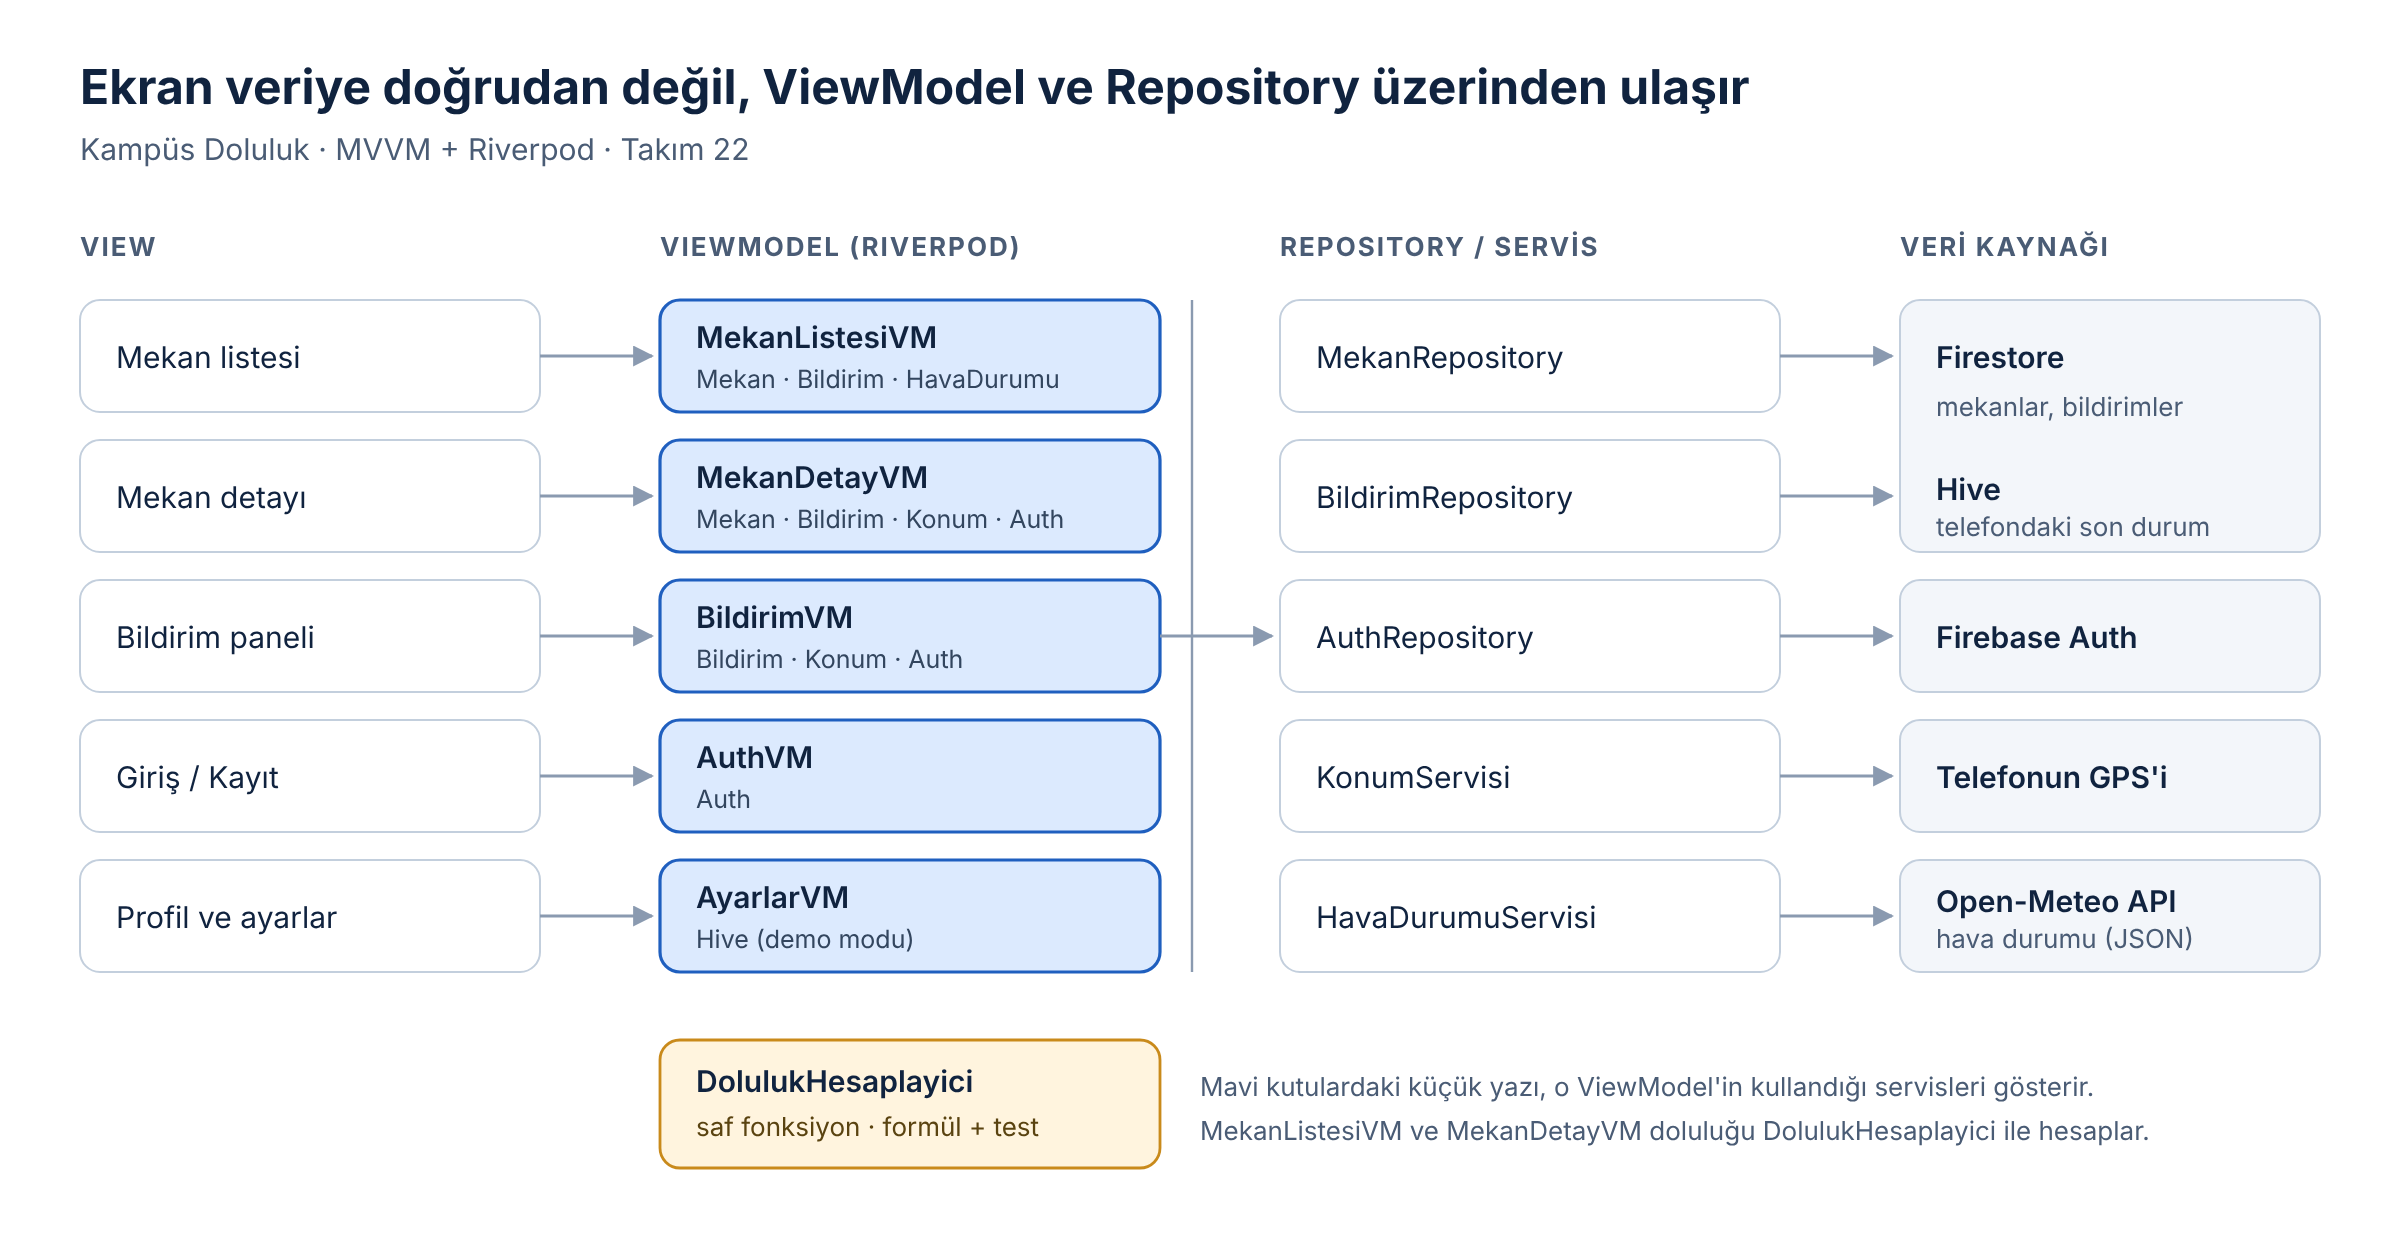
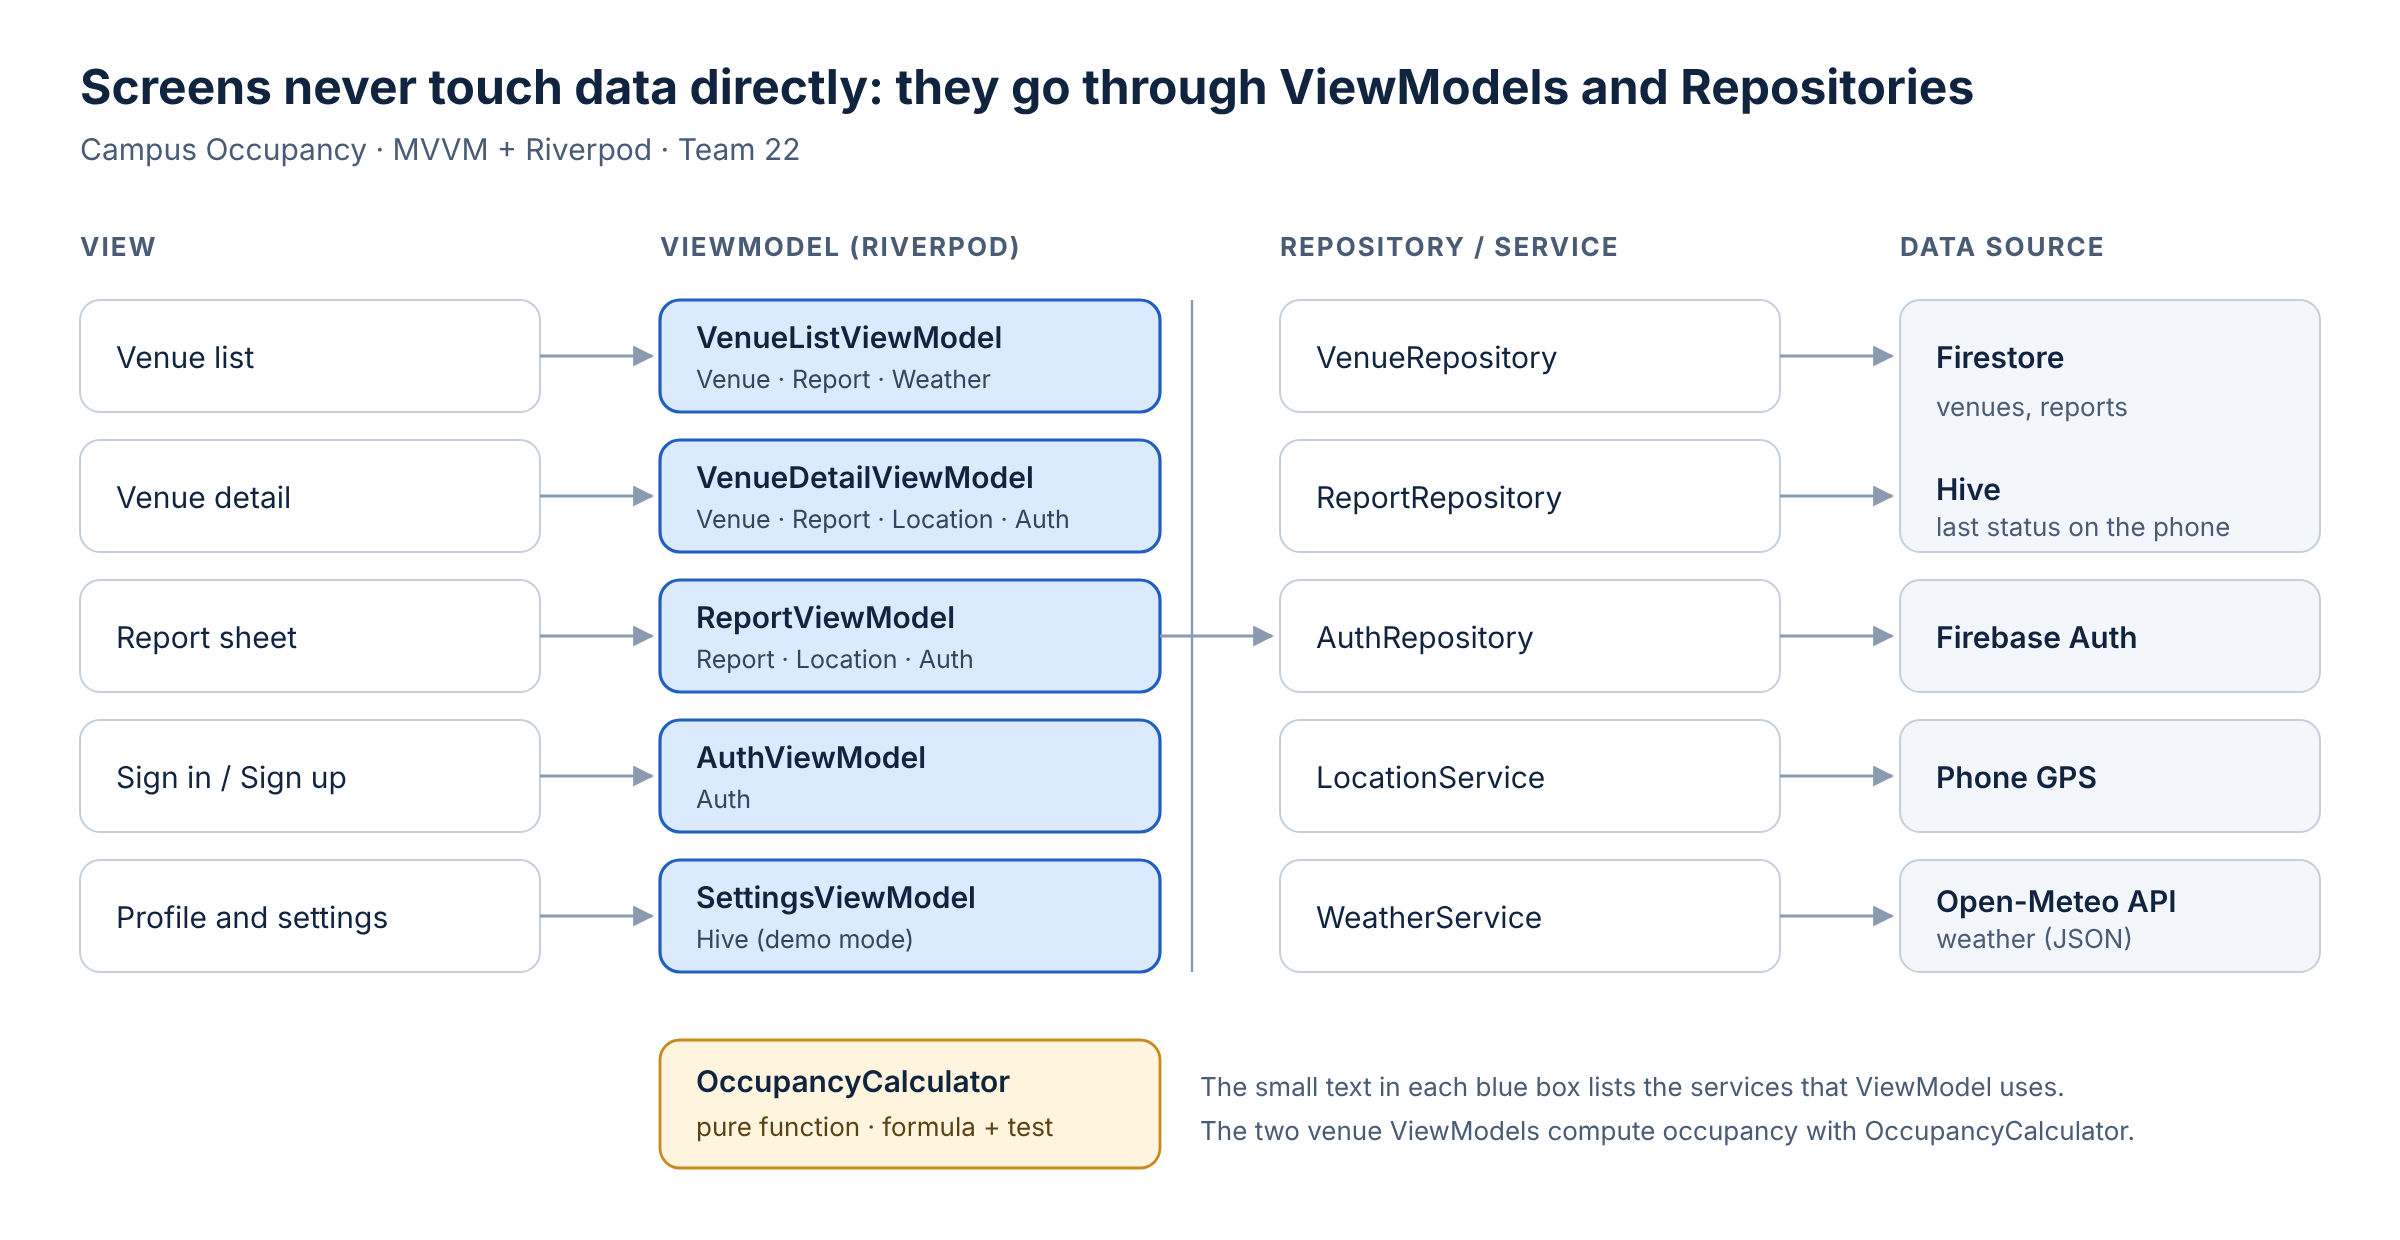
Update

diff --git a/docs/4_architecture.md b/docs/4_architecture.md
@@ -1,0 +1,72 @@
+# 4. Architecture
+
+The app consists of 5 screens, 2 Firestore collections and MVVM layers; state is managed with Riverpod.
+
+## 4.1 Screen map
+
+![Screen map](screen_map.png)
+
+The app opens directly on the venue list, because viewing needs no sign-in. The sign-in screen is reached only when the user wants to report, or from the profile. Mockup: [Figma](FIGMA_LINK_HERE) · [docs/mockup.png](mockup.png)
+
+## 4.2 Data model
+
+**Venue** (Firestore `venues`, 8 records)
+
+| Field | Type | Example | Used for |
+| --- | --- | --- | --- |
+| name | string | "Hokka Cafe" | Card title |
+| type | string | cafe / dining / gym | Filters |
+| group | string (optional) | "dining" | Showing both dining hall floors on one card |
+| photoUrl | string | image URL | Card image |
+| lat, lng | number | 41.027, 28.889 | GPS check |
+| radiusM | number (m) | 120 | GPS check |
+| halfLifeMin | number (min) | 10 | Occupancy calculation |
+| hasOutdoor | boolean | true | Weather warning |
+| openingHours | list of time ranges | [11:30–14:30, 17:00–19:15] | "Closed" status |
+
+**Report** (Firestore `reports`, one record per report)
+
+| Field | Type | Example |
+| --- | --- | --- |
+| venueId | string | "hokka" |
+| userId | string | Firebase Auth user id |
+| level | number | 0 (empty) / 50 (moderate) / 100 (full) |
+| createdAt | timestamp | 10.11.2026 12:31 |
+
+**User:** No separate collection. Email and verification status are kept by Firebase Auth; the 15-minute rule is checked against the `reports` collection.
+
+**On the phone (Hive):** Each venue's last calculated status and when it was calculated. This is shown when offline.
+
+### How occupancy is calculated
+
+A venue's status is not stored; it is calculated from recent reports every time. This way an old "full" never gets stuck on the screen.
+
+1. Each report gets a weight based on its age: `weight = 0.5 ^ (minutes since report / half-life)`. The half-life is 7 minutes for the dining hall, 10 for cafés and 20 for the gym. Reports older than about 4.5 half-lives are ignored (30 / 45 / 90 min).
+2. The occupancy percentage is the weighted average: `Σ(weight × level) / Σ(weight)`.
+3. Label: 0–35% Empty, 35–65% Moderate, 65–100% Full. The percentage is shown only on the detail screen.
+4. If the weights add up to less than 1.5 the card says "low confidence"; with no reports it says "no data". Outside opening hours it says "Closed".
+
+**Example:** Three people reported "empty" 25 minutes ago and one reported "full" 2 minutes ago (café, half-life 10 min). The weights are 3 × 0.177 and 0.871; occupancy = 87.1 / 1.401 = **62% → Moderate**, with low confidence because the weights sum to 1.40. A plain average would give 25% (Empty) and miss the most recent "full" report.
+
+## 4.3 MVVM diagram
+
+![MVVM diagram](mvvm.png)
+
+| Layer | Role | In this app |
+| --- | --- | --- |
+| View | Only draws and passes user actions to the ViewModel | Venue list, Venue detail, Report sheet, Sign in / Sign up, Profile |
+| ViewModel | Makes decisions and holds the screen's state | VenueListViewModel, VenueDetailViewModel, ReportViewModel, AuthViewModel, SettingsViewModel |
+| Repository / Service | Knows where the data comes from | VenueRepository, ReportRepository, AuthRepository, LocationService, WeatherService |
+| Data source | The data itself | Firestore, Firebase Auth, Hive, GPS, Open-Meteo |
+
+The occupancy formula lives in a pure function (`OccupancyCalculator`) outside the layers, so the example above can become an automated unit test.
+
+**The path of a report:** The user taps "Full" → ReportViewModel checks email verification, distance, opening hours and the 15-minute rule → ReportRepository writes the record to Firestore → Firestore delivers the new report to every phone → VenueListViewModel on each phone recalculates occupancy → the cards update.
+
+## 4.4 Why Riverpod
+
+We chose Riverpod over Provider:
+
+1. **It connects directly to live data:** `StreamProvider` binds the Firestore report stream to the screen in a single line. This live stream is the core of the app.
+2. **ViewModels can use each other easily:** The venue detail ViewModel needs both the location service and the sign-in state. In Riverpod this needs no `BuildContext`.
+3. **Errors are caught early:** Provider's "ProviderNotFound" error appears only at runtime; Riverpod catches similar mistakes at compile time.

diff --git a/docs/3_features.md b/docs/3_features.md
@@ -1,0 +1,29 @@
+# 3. Features
+
+The app has six must-have features, each mapped to a course topic.
+
+| # | Feature | Course topic | What the user does |
+| --- | --- | --- | --- |
+| 1 | Moving between screens: venue list, venue detail, report sheet, sign in / sign up, profile | Navigation | Taps a venue in the list to open its detail page, opens the report sheet from there, switches to the profile from the bottom bar |
+| 2 | Sign-in with a university email and live occupancy | Firebase (Auth + Firestore) | Signs up with a `@std.yildiz.edu.tr` address and verifies it; a report made on one phone appears on every other phone instantly |
+| 3 | Last known status without internet | Local DB (Hive) | Sees each venue's last status with an "updated 12 min ago" label when offline |
+| 4 | Weather warning | API / JSON (Open-Meteo) | Sees a note above the list that venues with outdoor seating are not recommended while it rains |
+| 5 | Animated occupancy indicator | Animation | When a venue's status changes, the indicator's color and fill bar change smoothly |
+| 6 | Each screen's logic lives in its own ViewModel | MVVM + Riverpod | (Invisible) Screens only draw; calculations and data access happen in ViewModels |
+
+## Rules
+
+- **Viewing is open:** No sign-in is needed to see how crowded venues are.
+- **Reporting needs a verified university email:** Only verified `@std.yildiz.edu.tr` accounts can report. The rule is enforced both in the app and in Firestore security rules.
+- **You must be at the venue:** The report button works only within 100–150 m of the venue (GPS). For the presentation, a demo mode in settings turns this check off.
+- **Rate limit:** One person can report on the same venue at most once every 15 minutes.
+- **Three levels:** Empty, Moderate, Full.
+- **Opening hours:** Outside opening hours a venue shows "Closed", moves to the bottom of the list and cannot receive reports. The dining hall is open 11:30–14:30 and 17:00–19:15.
+
+## Venues
+
+Seven venues on Davutpaşa Campus: Hokka Cafe, Kayıntı Cafe, Büyük Ev Cafe, Yıldız Cafe, 21co, YTU Dining Hall and YTU Gym. The list is fixed; users cannot add venues. The dining hall's lower and upper floors are calculated separately, so the database holds 8 records; the list shows both floors on a single card with two rows.
+
+## Later versions
+
+An hourly busyness chart ("usually full at 12:30") is not part of the MVP: it needs weeks of collected data to be meaningful.
